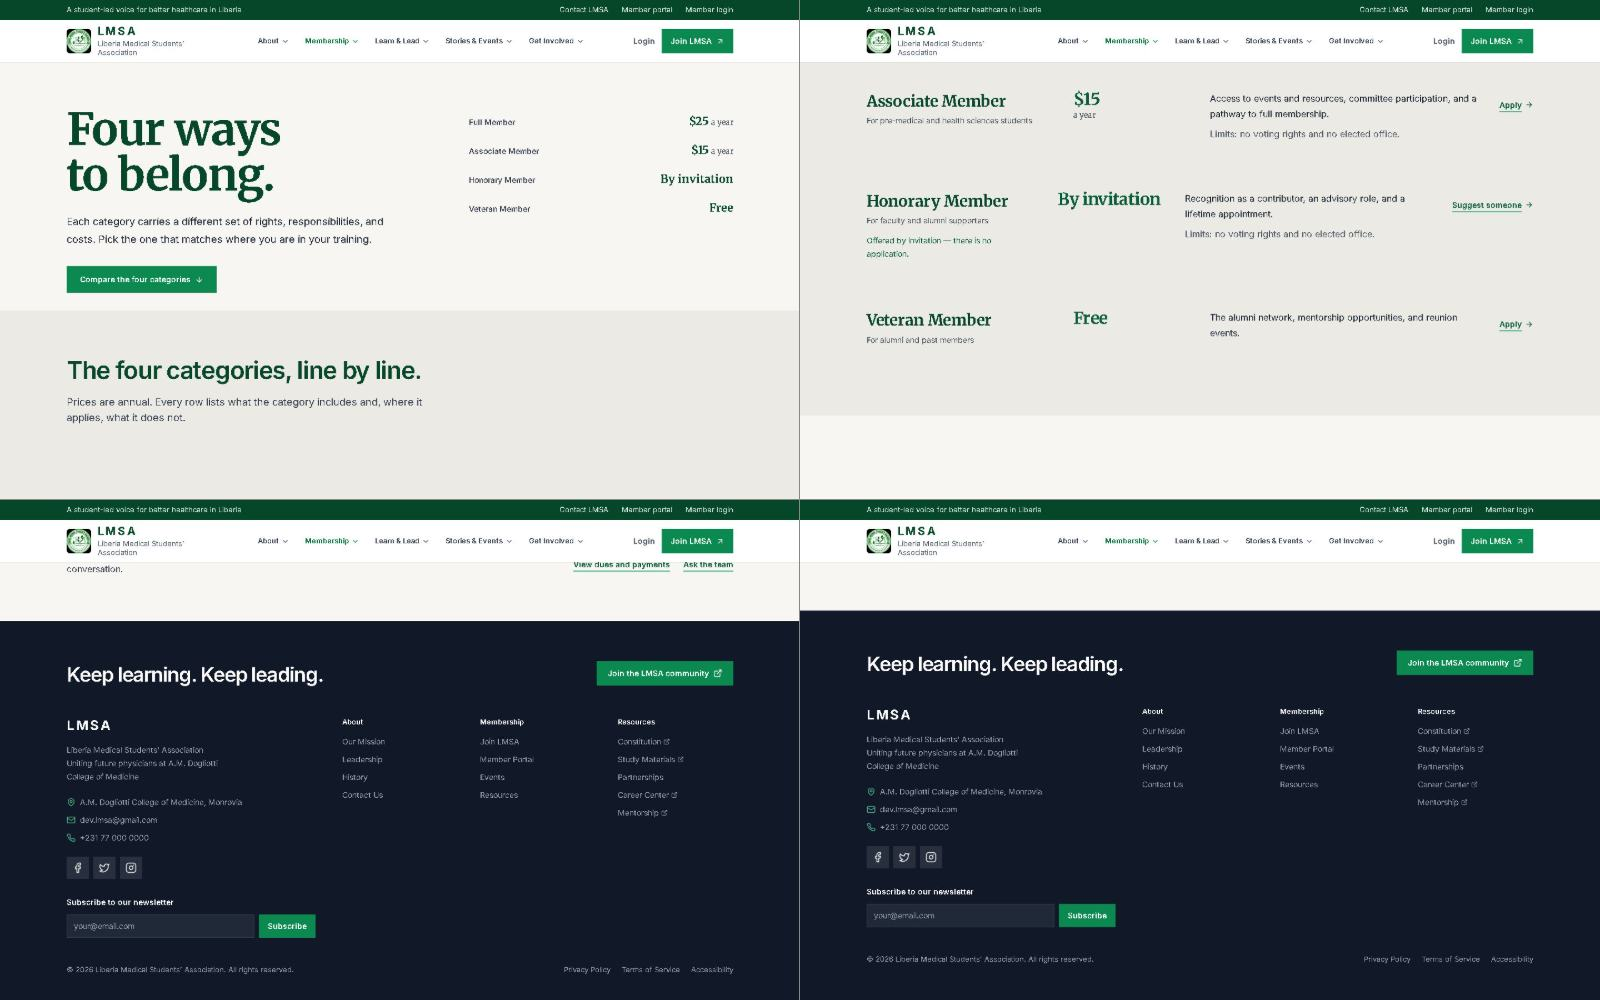
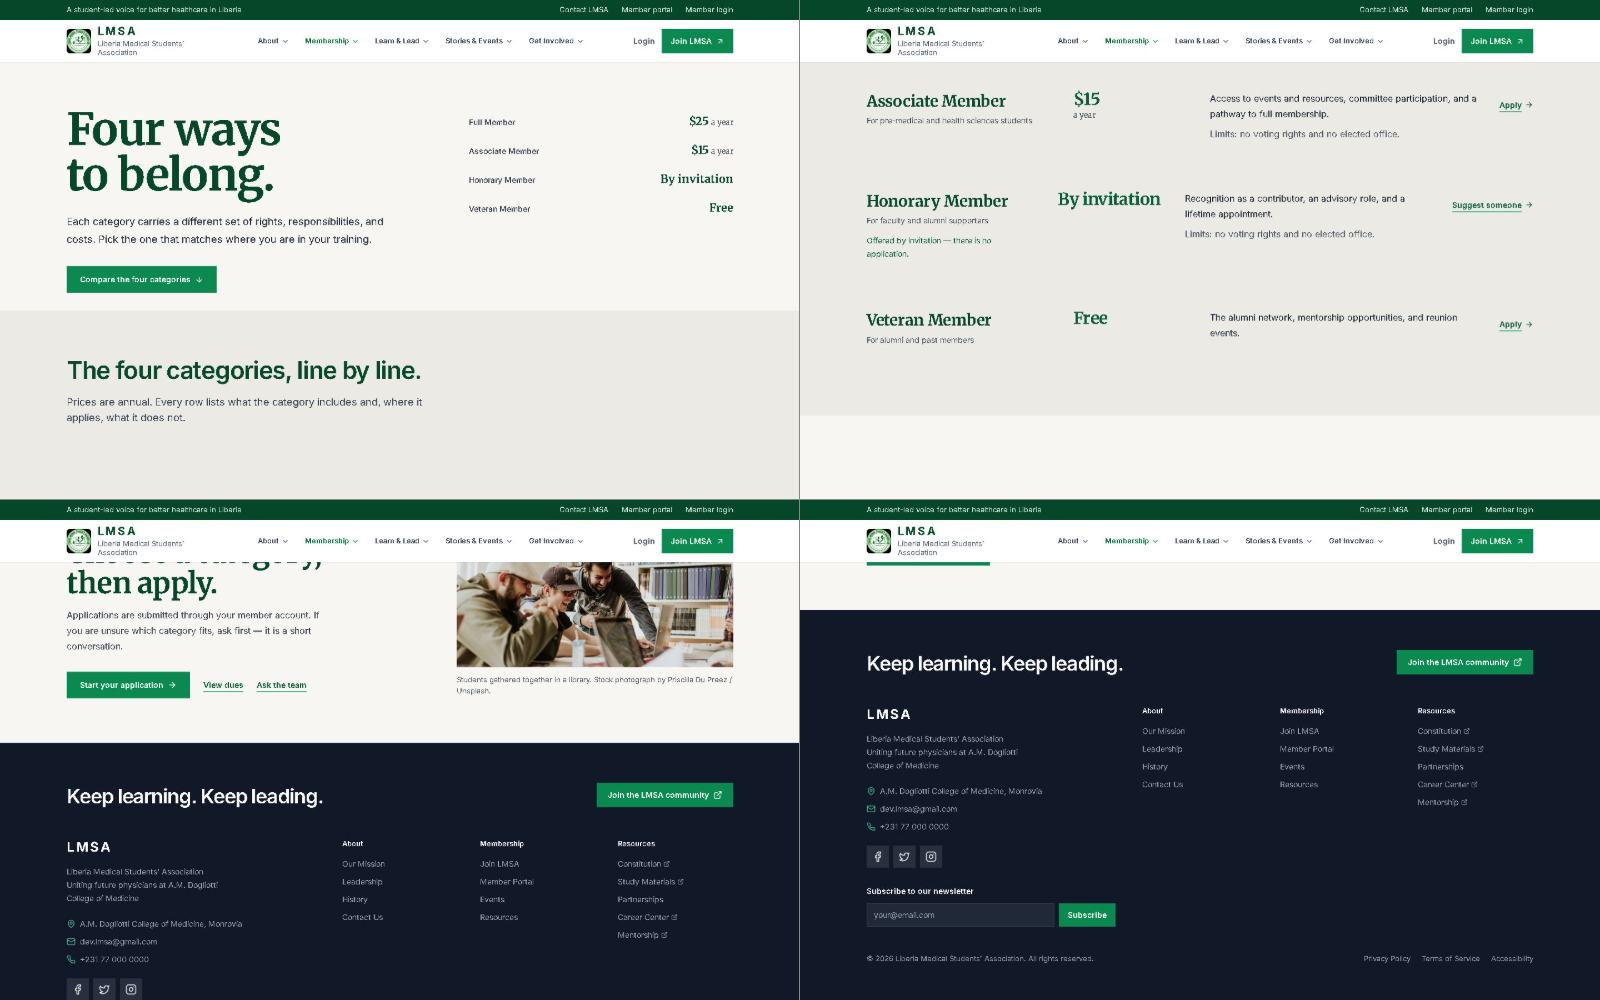
Close the categories page on a photograph of members
The tariff ledger ends on a price comparison, which left the page feeling like a fee schedule. A credited photograph beside the closing copy puts the people a category belongs to back at the end of the page, with the actions moved under the copy so the image is not competing with a button.

🤖 Generated with Codebuff

diff --git a/lmsa-website/src/pages/public/CategoriesPage.jsx b/lmsa-website/src/pages/public/CategoriesPage.jsx
@@ -1,6 +1,8 @@
 import { useEffect } from 'react';
 import { ArrowRight, ArrowDown } from 'lucide-react';
 import { Link } from 'react-router-dom';
+import Photo from '../../components/common/Photo';
+import { stockPhotos } from '../../config/images';
 
 const categories = [
   {
@@ -179,10 +181,10 @@ export default function CategoriesPage() {
         </div>
       </section>
 
-      {/* Closing: three honest next steps on the page's own cream. */}
+      {/* Closing: the last word is the people a category belongs to, not a button. */}
       <section className="editorial-section">
         <div className="site-container">
-          <div className="grid gap-10 lg:grid-cols-[1.1fr_0.9fr] lg:items-end">
+          <div className="grid gap-12 lg:grid-cols-[1fr_0.78fr] lg:items-end lg:gap-16">
             <div className="reveal-on-scroll">
               <h2 className="max-w-[20ch] font-serif text-[clamp(2rem,4vw,3.25rem)] font-bold leading-[1.06] tracking-[-0.015em] text-lmsa-900">
                 Choose a category, then apply.
@@ -191,21 +193,19 @@ export default function CategoriesPage() {
                 Applications are submitted through your member account. If you are unsure which
                 category fits, ask first — it is a short conversation.
               </p>
-            </div>
-            <div className="reveal-on-scroll flex flex-col gap-4 sm:flex-row sm:items-center lg:flex-col lg:items-end" style={{ transitionDelay: '90ms' }}>
-              <Link
-                to="/membership#apply"
-                className="inline-flex min-h-12 items-center justify-center gap-2 bg-lmsa-600 px-6 text-sm font-semibold text-white transition-colors hover:bg-lmsa-700"
-              >
-                Start your application
-                <ArrowRight size={16} aria-hidden="true" />
-              </Link>
-              <div className="flex flex-col gap-3 sm:flex-row sm:gap-6 lg:items-end">
+              <div className="mt-8 flex flex-col gap-4 sm:flex-row sm:items-center sm:gap-6">
+                <Link
+                  to="/membership#apply"
+                  className="inline-flex min-h-12 items-center justify-center gap-2 bg-lmsa-600 px-6 text-sm font-semibold text-white transition-colors hover:bg-lmsa-700"
+                >
+                  Start your application
+                  <ArrowRight size={16} aria-hidden="true" />
+                </Link>
                 <Link
                   to="/membership/dues"
                   className="inline-flex min-h-11 items-center text-sm font-semibold text-lmsa-800 underline decoration-lmsa-400 decoration-2 underline-offset-[6px] transition-colors hover:decoration-lmsa-800"
                 >
-                  View dues and payments
+                  View dues
                 </Link>
                 <Link
                   to="/contact"
@@ -214,6 +214,22 @@ export default function CategoriesPage() {
                   Ask the team
                 </Link>
               </div>
+            </div>
+            <div className="reveal-on-scroll lg:pb-1" style={{ transitionDelay: '90ms' }}>
+              <figure>
+                <Photo
+                  src={stockPhotos.hero.membership.src}
+                  alt={stockPhotos.hero.membership.alt}
+                  width={4}
+                  height={3}
+                  fallbackGradient="bg-lmsa-800"
+                  className="w-full"
+                />
+                <figcaption className="mt-3 text-[13px] leading-5 text-gray-600">
+                  Students gathered together in a library. Stock photograph by{' '}
+                  {stockPhotos.hero.membership.credit}.
+                </figcaption>
+              </figure>
             </div>
           </div>
         </div>
